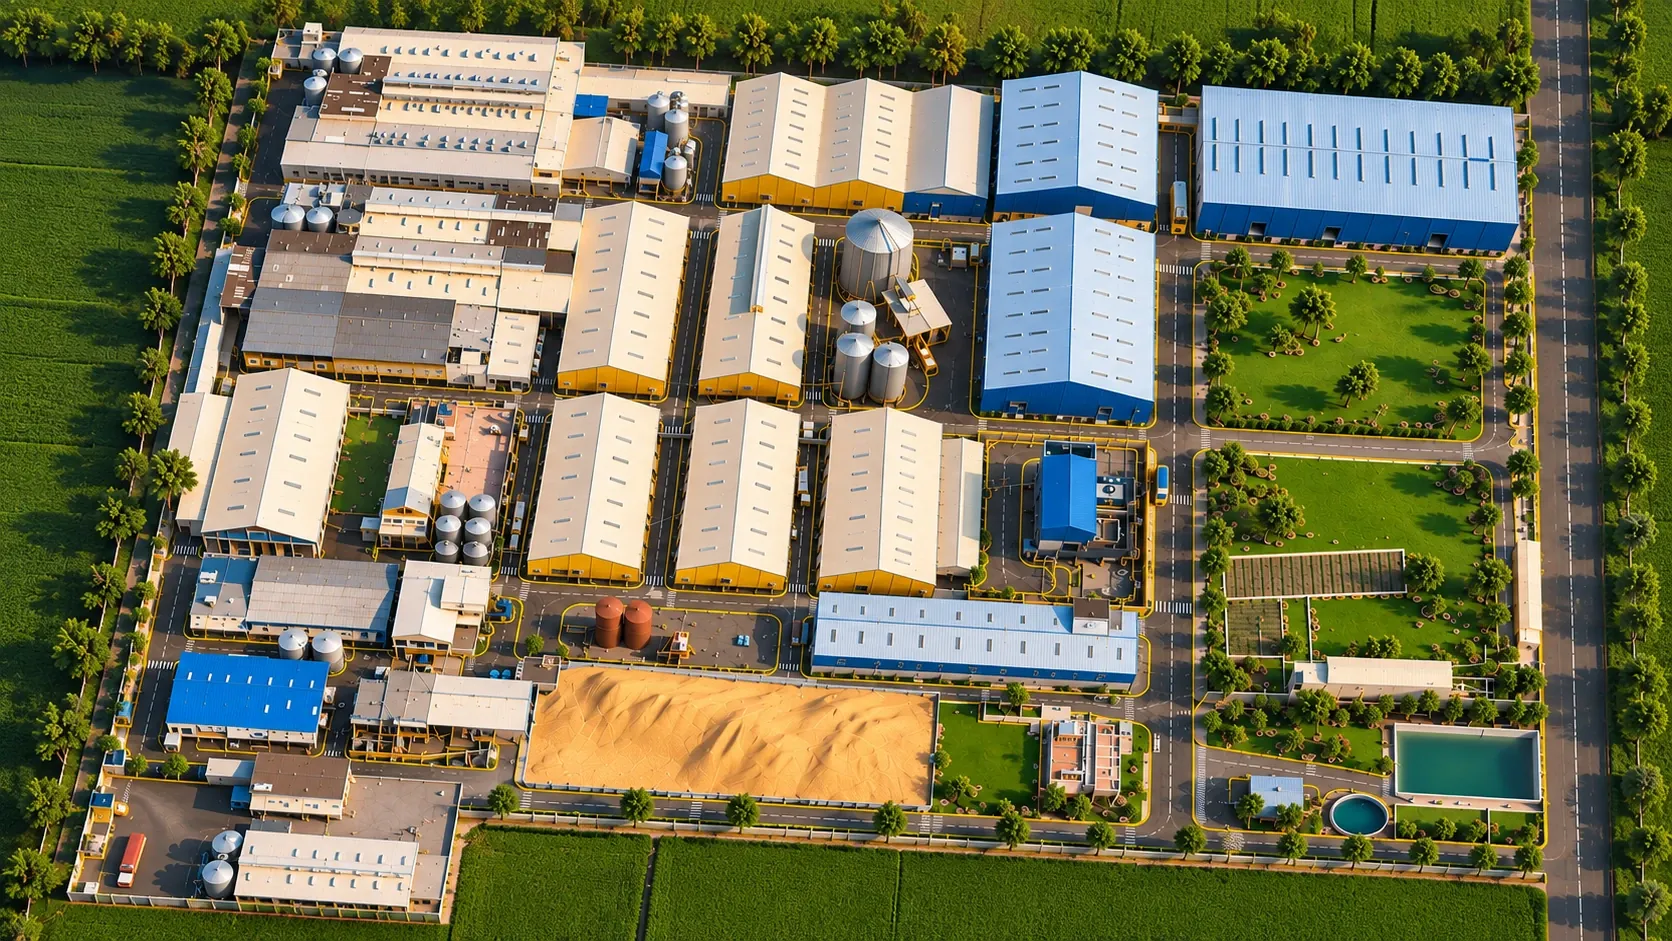
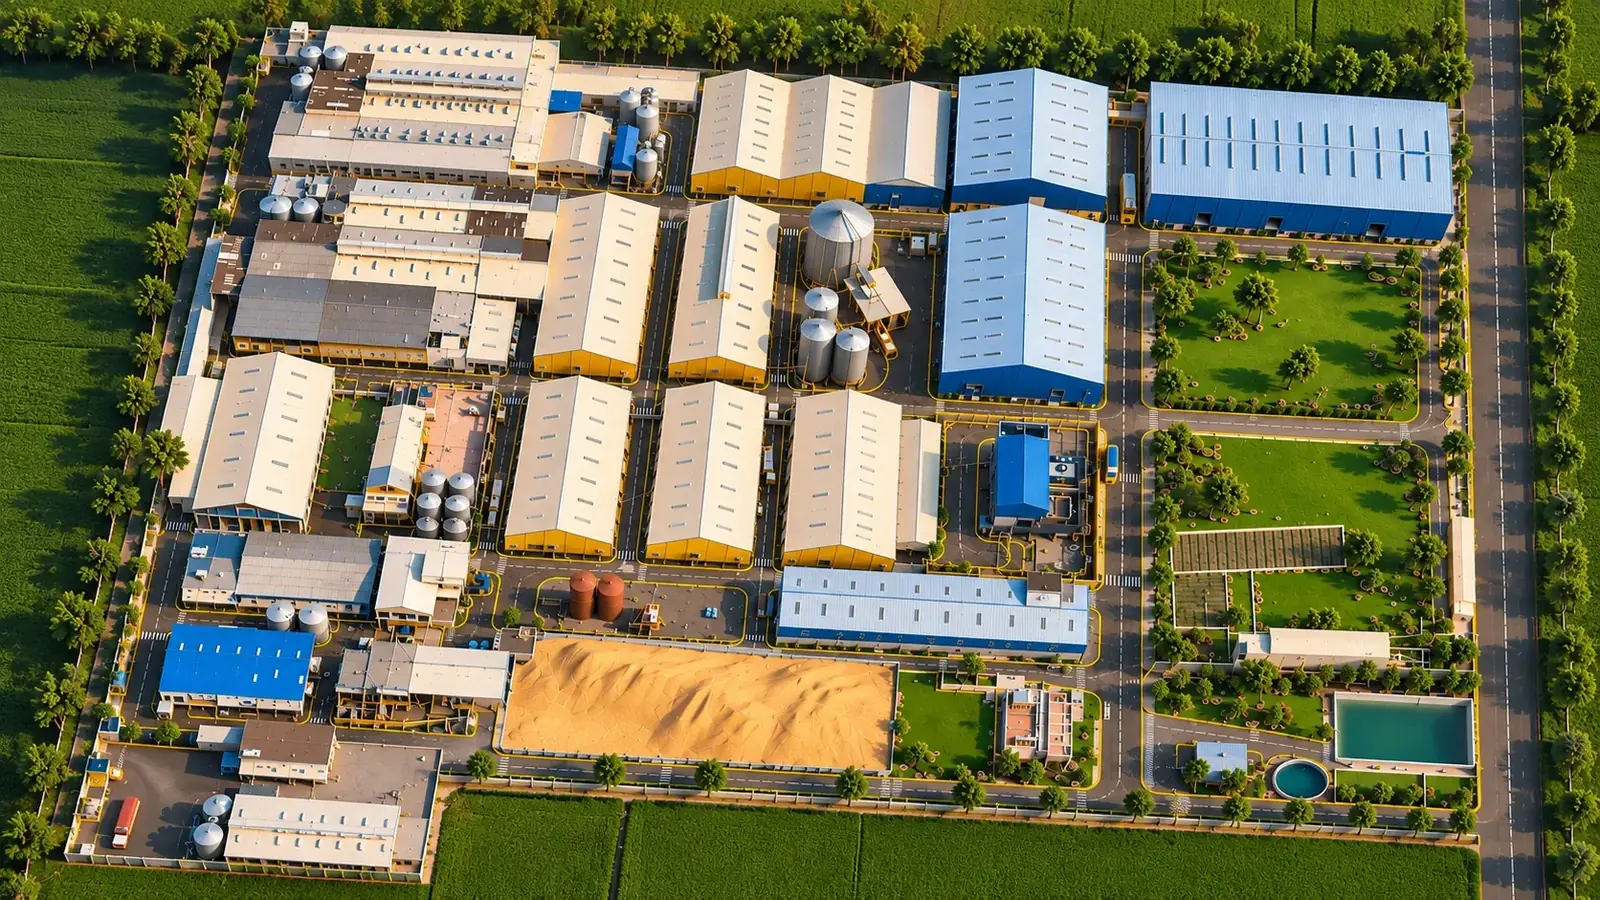
feat(auth & perf): support login by Account Name/Username/Email and optimize login background & machine images 10X faster

diff --git a/frontend/index.html b/frontend/index.html
@@ -5,11 +5,19 @@
   <meta name="viewport" content="width=device-width, initial-scale=1.0">
   <title>Mashal EMS Intelligence — SCADA Plant Energy &amp; Motor Analytics</title>
   <meta name="description" content="Mashal Mustard Oil Plant SCADA Telemetry, 15-Minute Motor Operating Health, and Energy Distribution.">
-  <link rel="icon" type="image/webp" href="/img/3d_logo2.webp?v=20261112_logo_fast_v1">
-  <link rel="preload" as="image" href="/img/3d_logo1.webp?v=20261112_logo_fast_v1" fetchpriority="high">
-  <link rel="preload" as="image" href="/img/3d_logo2.webp?v=20261112_logo_fast_v1" fetchpriority="high">
+  <link rel="icon" type="image/webp" href="/img/3d_logo2.webp?v=20261112_fast10x">
 
-  <!-- Google Fonts: Outfit & Inter -->
+  <!-- Priority 1: Instant 10X Preload for Background & Login Machinery Images -->
+  <link rel="preload" as="image" href="/img/land1_background.webp?v=20261112_fast10x" type="image/webp" fetchpriority="high">
+  <link rel="preload" as="image" href="/img/machine1.webp?v=20261112_fast10x" type="image/webp" fetchpriority="high">
+  <link rel="preload" as="image" href="/img/machine2.webp?v=20261112_fast10x" type="image/webp" fetchpriority="high">
+  <link rel="preload" as="image" href="/img/3d_logo1.webp?v=20261112_fast10x" fetchpriority="high">
+  <link rel="preload" as="image" href="/img/3d_logo2.webp?v=20261112_fast10x" fetchpriority="high">
+
+  <!-- Application CSS -->
+  <link rel="stylesheet" href="/css/style.css?v=20261112_fast10x">
+
+  <!-- Google Fonts: Outfit & Inter (Preconnect for high speed) -->
   <link rel="preconnect" href="https://fonts.googleapis.com">
   <link rel="preconnect" href="https://fonts.gstatic.com" crossorigin>
   <link href="https://fonts.googleapis.com/css2?family=Inter:wght@400;500;600;700&family=JetBrains+Mono:wght@500;600&family=Outfit:wght@500;600;700;800&display=swap" rel="stylesheet">
@@ -17,16 +25,8 @@
   <!-- Font Awesome 6 Icons -->
   <link rel="stylesheet" href="https://cdnjs.cloudflare.com/ajax/libs/font-awesome/6.5.1/css/all.min.css">
 
-  <!-- Chart.js 4.4 -->
-  <script src="https://cdn.jsdelivr.net/npm/chart.js@4.4.1/dist/chart.umd.min.js"></script>
-
-  <!-- Application CSS -->
-  <link rel="stylesheet" href="/css/style.css?v=20261112_laptop_shift_fix_v27">
-
-  <!-- Preload Optimized Background & Machinery Images for 5X Faster Loading -->
-  <link rel="preload" as="image" href="/img/land1_background.webp?v=20261112_fast5x" type="image/webp" fetchpriority="high">
-  <link rel="preload" as="image" href="/img/machine1.webp?v=20261112_fast5x" type="image/webp" fetchpriority="high">
-  <link rel="preload" as="image" href="/img/machine2.webp?v=20261112_fast5x" type="image/webp" fetchpriority="high">
+  <!-- Chart.js 4.4 (Deferred so it does not block first paint or images) -->
+  <script src="https://cdn.jsdelivr.net/npm/chart.js@4.4.1/dist/chart.umd.min.js" defer></script>
 
   <!-- Instant Theme Restoration Script (Default Black / Dark Theme) -->
   <script>
@@ -944,10 +944,10 @@
     <!-- Left Column: Plant Machinery Showcase (Seamlessly joined, Zero space, Pure images) -->
     <div class="auth-machinery-showcase">
       <div class="machinery-frame">
-        <img src="/img/machine1.webp?v=20261112_fast5x" alt="Expeller Machine Motors" class="machinery-img" loading="eager" fetchpriority="high" decoding="async" width="500" height="280">
+        <img src="/img/machine1.webp?v=20261112_fast10x" alt="Expeller Machine Motors" class="machinery-img" loading="eager" fetchpriority="high" decoding="async" width="500" height="280">
       </div>
       <div class="machinery-frame">
-        <img src="/img/machine2.webp?v=20261112_fast5x" alt="Kohlu Cold-Press Plant" class="machinery-img" loading="eager" fetchpriority="high" decoding="async" width="500" height="280">
+        <img src="/img/machine2.webp?v=20261112_fast10x" alt="Kohlu Cold-Press Plant" class="machinery-img" loading="eager" fetchpriority="high" decoding="async" width="500" height="280">
       </div>
     </div>
 
@@ -957,8 +957,8 @@
     <!-- Header with the official 3D KOGM and Mashal logos -->
     <div class="modal-header" style="justify-content:center; flex-direction:column; gap:0.5rem; text-align:center; padding:1.4rem 1.6rem 1rem; border-bottom:1px solid rgba(255,255,255,0.45);">
       <div style="display:flex; justify-content:center; align-items:center; gap:10px;">
-        <img src="/img/3d_logo1.webp?v=20261112_logo_fast_v1" alt="KOGM — Khandelia Oil &amp; General Mills" style="height:68px; width:165px; padding:3px; border:1px solid rgba(244,180,0,0.55); border-radius:7px; background:#fff; object-fit:contain;">
-        <img src="/img/3d_logo2.webp?v=20261112_logo_fast_v1" alt="Mashal Kachi Ghani Mustard Oil" style="height:68px; width:165px; padding:3px; border:1px solid rgba(244,180,0,0.55); border-radius:7px; background:#fff; object-fit:contain;">
+        <img src="/img/3d_logo1.webp?v=20261112_fast10x" alt="KOGM — Khandelia Oil &amp; General Mills" style="height:68px; width:165px; padding:3px; border:1px solid rgba(244,180,0,0.55); border-radius:7px; background:#fff; object-fit:contain;">
+        <img src="/img/3d_logo2.webp?v=20261112_fast10x" alt="Mashal Kachi Ghani Mustard Oil" style="height:68px; width:165px; padding:3px; border:1px solid rgba(244,180,0,0.55); border-radius:7px; background:#fff; object-fit:contain;">
       </div>
       <div>
         <h3 class="modal-title" style="font-size:1.20rem; font-weight:800; letter-spacing:0.4px; color:#0f172a; margin:0;">MASHAL EMS INTELLIGENCE</h3>
@@ -982,9 +982,9 @@
         <form id="login-form">
           <div style="margin-bottom:1rem;">
             <label style="display:block; font-size:0.78rem; font-weight:700; color:#334155 !important; margin-bottom:0.35rem;">
-              <i class="fa-regular fa-user" style="color:#0284c7;"></i> Username or Email
+              <i class="fa-regular fa-user" style="color:#0284c7;"></i> Account Name, Username, or Email
             </label>
-            <input type="text" id="login-username" class="search-input" placeholder="Username or email" value="" autocomplete="username" required autofocus style="width:100%; color:#0f172a !important; background:#ffffff !important; border:1px solid #cbd5e1 !important;">
+            <input type="text" id="login-username" class="search-input" placeholder="Account Name, Username, or Email" value="" autocomplete="username" required autofocus style="width:100%; color:#0f172a !important; background:#ffffff !important; border:1px solid #cbd5e1 !important;">
           </div>
           <div style="margin-bottom:1rem;">
             <label style="display:block; font-size:0.78rem; font-weight:700; color:#334155 !important; margin-bottom:0.35rem;">

diff --git a/frontend/css/style.css b/frontend/css/style.css
@@ -2619,7 +2619,7 @@ html.is-authenticated #login-modal {
   justify-content: center;
   overflow-y: auto;
   z-index: 1000;
-  background-image: linear-gradient(rgba(7, 16, 28, 0.22), rgba(7, 16, 28, 0.22)), url('/img/land1_background.webp?v=20261112_fast5x') !important;
+  background-image: linear-gradient(rgba(7, 16, 28, 0.22), rgba(7, 16, 28, 0.22)), url('/img/land1_background.webp?v=20261112_fast10x') !important;
   background-position: center;
   background-size: cover;
   background-repeat: no-repeat;
@@ -2634,7 +2634,7 @@ html.is-authenticated #login-modal {
 }
 
 [data-theme="light"] #login-modal {
-  background-image: linear-gradient(rgba(7, 16, 28, 0.22), rgba(7, 16, 28, 0.22)), url('/img/land1_background.webp?v=20261112_fast5x') !important;
+  background-image: linear-gradient(rgba(7, 16, 28, 0.22), rgba(7, 16, 28, 0.22)), url('/img/land1_background.webp?v=20261112_fast10x') !important;
   background-position: center;
   background-size: cover;
   background-repeat: no-repeat;

diff --git a/backend/app/routers/auth_router.py b/backend/app/routers/auth_router.py
@@ -46,13 +46,16 @@ class ResetPasswordRequest(BaseModel):
 def login(credentials: LoginRequest, request: Request, db: Session = Depends(get_db)):
     ip = request.client.host if request.client else "127.0.0.1"
     clean_login = credentials.username.strip()
+    clean_uname = clean_login.lstrip("@").strip()
 
-    # Search by username, email, OR registered full name (case-insensitive)
+    # Search by Account Name (full_name), Username (with/without @), or Registered Email
     user = db.query(User).filter(
         or_(
-            User.username == clean_login,
-            User.email == clean_login.lower(),
-            func.lower(User.full_name) == clean_login.lower()
+            func.lower(User.username) == clean_login.lower(),
+            func.lower(User.username) == clean_uname.lower(),
+            func.lower(User.email) == clean_login.lower(),
+            func.trim(func.lower(User.full_name)) == clean_login.lower(),
+            func.trim(func.lower(User.full_name)) == clean_uname.lower()
         )
     ).first()
     
@@ -68,7 +71,7 @@ def login(credentials: LoginRequest, request: Request, db: Session = Depends(get
         )
         raise HTTPException(
             status_code=status.HTTP_404_NOT_FOUND,
-            detail=f"No account found with '{clean_login}'. Please create an account to get started.",
+            detail=f"No account found matching '{clean_login}'. Please check your Account Name, Username, or Email.",
             headers={"X-User-Exists": "false"}
         )
 

diff --git a/backend/app/main.py b/backend/app/main.py
@@ -61,13 +61,20 @@ def health_check():
         "version": settings.VERSION
     }
 
+class CachedStaticFiles(StaticFiles):
+    """Custom static file server with aggressive 1-year browser caching for ultra-fast instant 10X asset loading."""
+    def file_response(self, *args, **kwargs):
+        resp = super().file_response(*args, **kwargs)
+        resp.headers["Cache-Control"] = "public, max-age=31536000, immutable"
+        return resp
+
 # Mount Frontend Static Assets
 frontend_dir = os.path.abspath(os.path.join(os.path.dirname(__file__), "..", "..", "frontend"))
 images_dir = os.path.abspath(os.path.join(os.path.dirname(__file__), "..", "..", "Images"))
 
 if os.path.exists(images_dir):
-    app.mount("/Images", StaticFiles(directory=images_dir), name="Images")
-    app.mount("/images", StaticFiles(directory=images_dir), name="images")
+    app.mount("/Images", CachedStaticFiles(directory=images_dir), name="Images")
+    app.mount("/images", CachedStaticFiles(directory=images_dir), name="images")
 
 if os.path.exists(frontend_dir):
     # Mount css, js, img subdirectories
@@ -79,7 +86,7 @@ if os.path.exists(frontend_dir):
     if os.path.exists(js_dir):
         app.mount("/js", StaticFiles(directory=js_dir), name="js")
     if os.path.exists(img_dir):
-        app.mount("/img", StaticFiles(directory=img_dir), name="img")
+        app.mount("/img", CachedStaticFiles(directory=img_dir), name="img")
 
     # Serve index.html as root
     @app.get("/")
